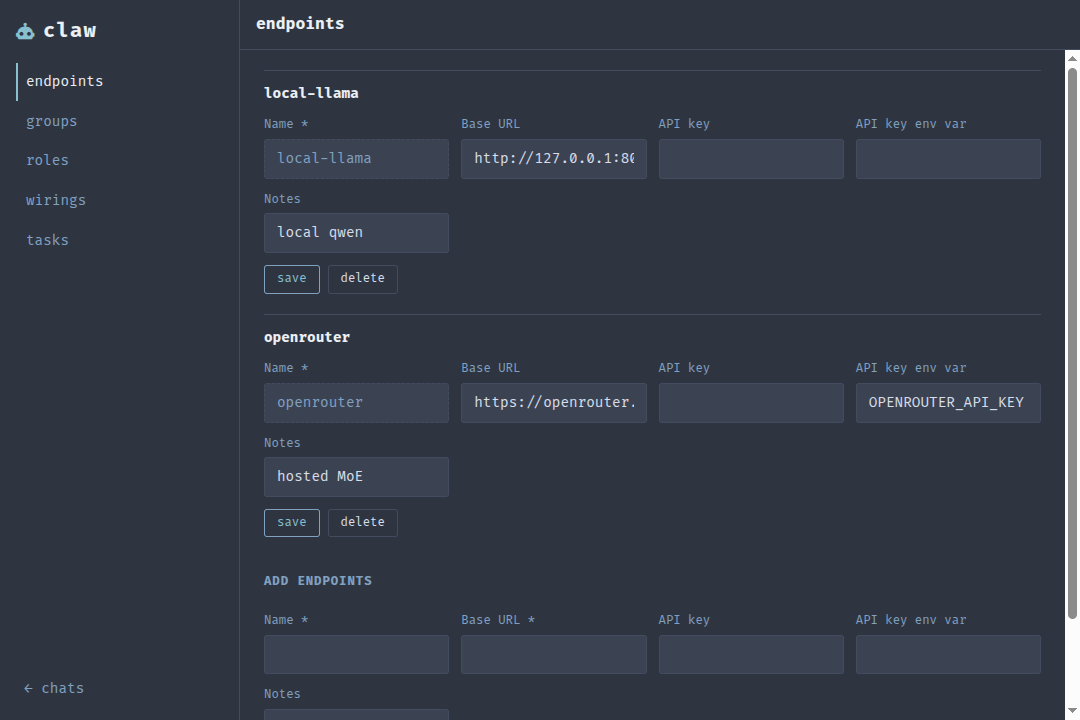
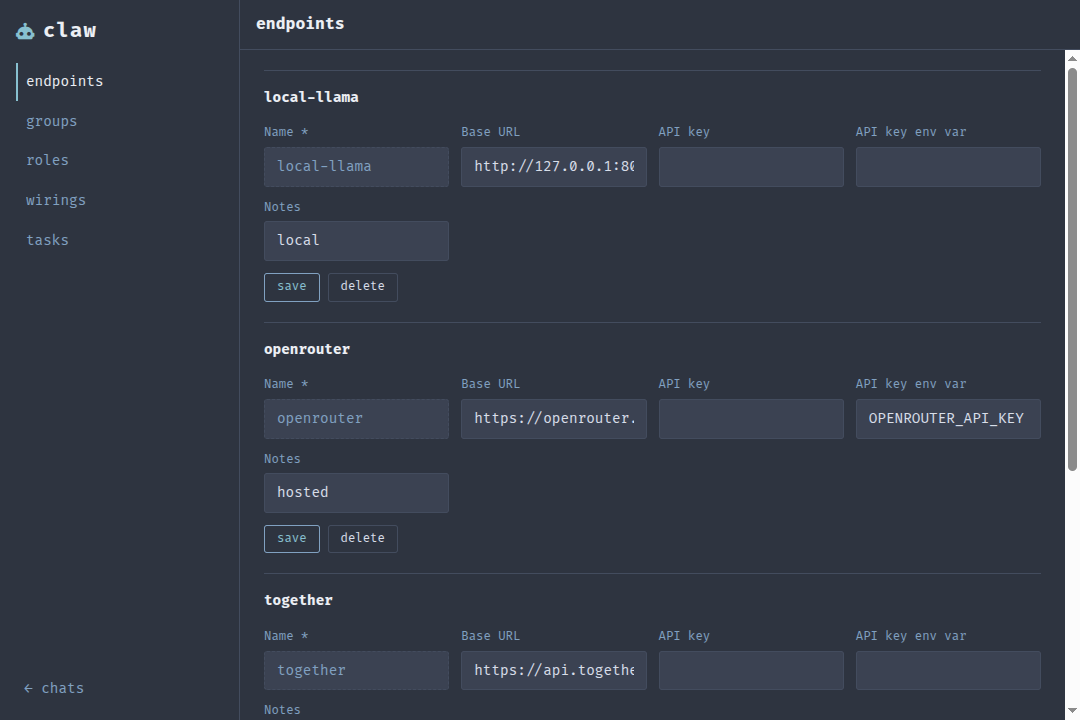
ui: fix mobile layout (fill height) + sticky list titles
- Mobile (max-width:720px): the app is now a fixed top bar + a content pane that
  fills the remaining height and scrolls internally (grid-template-rows: auto
  minmax(0,1fr); height:100%), instead of a page-scroll layout with a 60vh-capped
  transcript. The chat transcript and admin lists now take all available height;
  the composer stays pinned. The sidebar collapses to a compact top bar with the
  chat/nav links as a horizontal scroll strip.
- Sticky list titles: admin section <h2>, each editable row's title, and the
  tasks table <thead> now stick to the top of the scrolling admin pane (with a
  bg + z-index), so you keep context while scrolling long lists.

CSS-only; colours stay token-only. Refreshed the desktop admin screenshots (the
sticky titles add a little title padding). fmt, clippy, 224 lib + integration green.

diff --git a/assets/claw.css b/assets/claw.css
@@ -292,6 +292,11 @@ button:disabled { opacity: 0.5; cursor: default; }
 
 .admin-section { display: flex; flex-direction: column; gap: var(--space-2); }
 .admin-section > h2 {
+  position: sticky;
+  top: 0;
+  z-index: 3;
+  background: var(--color-bg);
+  padding: var(--space-2) 0;
   font-size: var(--text-xs);
   text-transform: uppercase;
   letter-spacing: 0.08em;
@@ -310,6 +315,11 @@ button:disabled { opacity: 0.5; cursor: default; }
 }
 .row--new { border-top: none; }
 .row-title {
+  position: sticky;
+  top: 0;
+  z-index: 2;
+  background: var(--color-bg);
+  padding: var(--space-1) 0;
   font-size: var(--text-sm);
   font-weight: 700;
   color: var(--color-text-strong);
@@ -340,6 +350,12 @@ button:disabled { opacity: 0.5; cursor: default; }
   text-align: left;
   vertical-align: top;
 }
+.admin-table thead th {
+  position: sticky;
+  top: 0;
+  z-index: 3;
+  background: var(--color-bg);
+}
 .admin-table th {
   color: var(--color-text-muted);
   font-weight: 700;
@@ -364,24 +380,45 @@ button:disabled { opacity: 0.5; cursor: default; }
 /* ── responsive ────────────────────────────────────────────────────── */
 
 @media (max-width: 720px) {
-  .app { grid-template-columns: 1fr; height: auto; min-height: 100%; }
+  /* fixed top bar + a content pane that fills the rest and scrolls internally */
+  .app {
+    grid-template-columns: 1fr;
+    grid-template-rows: auto minmax(0, 1fr);
+    height: 100%;
+  }
   .sidebar {
     flex-direction: row;
     flex-wrap: wrap;
     align-items: center;
-    gap: var(--space-3);
+    gap: var(--space-2) var(--space-3);
+    padding: var(--space-2) var(--space-3);
     border-right: none;
     border-bottom: var(--hair);
-    position: sticky;
-    top: 0;
-    background: var(--color-bg);
-    z-index: 1;
+    overflow: visible;
   }
-  .chat-list { flex-direction: row; flex-wrap: wrap; flex: 1 1 100%; }
-  .chat-link { border-left: none; border-bottom: 2px solid transparent; }
+  .sidebar .logo { font-size: var(--text-md); }
+  .chat-list {
+    flex: 1 1 0;
+    min-width: 0;
+    flex-direction: row;
+    flex-wrap: nowrap;
+    overflow-x: auto;
+    gap: var(--space-1);
+  }
+  .chat-link {
+    border-left: none;
+    border-bottom: 2px solid transparent;
+    white-space: nowrap;
+    padding: var(--space-1) var(--space-2);
+  }
   .chat-link--active { border-left: none; border-bottom-color: var(--color-accent); }
-  .new-chat { flex: 1; }
-  .chat { height: auto; }
-  .transcript { max-height: 60vh; }
-  .admin-body { padding: var(--space-4); }
+  /* the chat strip takes row 1 (next to the logo); controls wrap below it */
+  .new-chat { flex: 1 1 100%; order: 5; }
+  .new-chat input { font-size: var(--text-sm); }
+  .archived { order: 6; }
+  .admin-back { order: 7; margin-left: auto; }
+  /* the content pane fills its grid row; only the list inside it scrolls */
+  .chat { height: 100%; min-height: 0; }
+  .transcript, .admin-body { min-height: 0; }
+  .admin-body { padding: var(--space-4); max-width: none; }
 }
